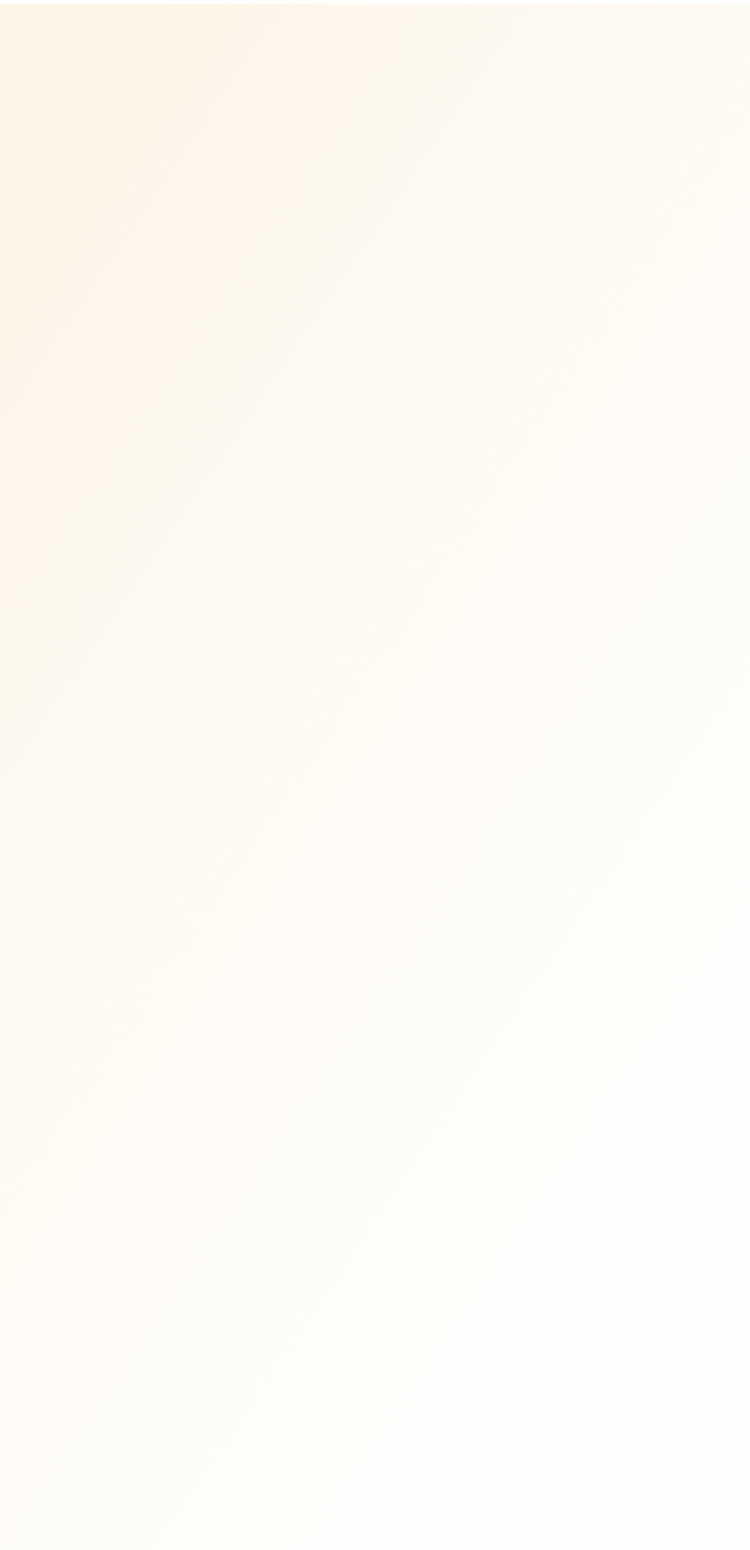
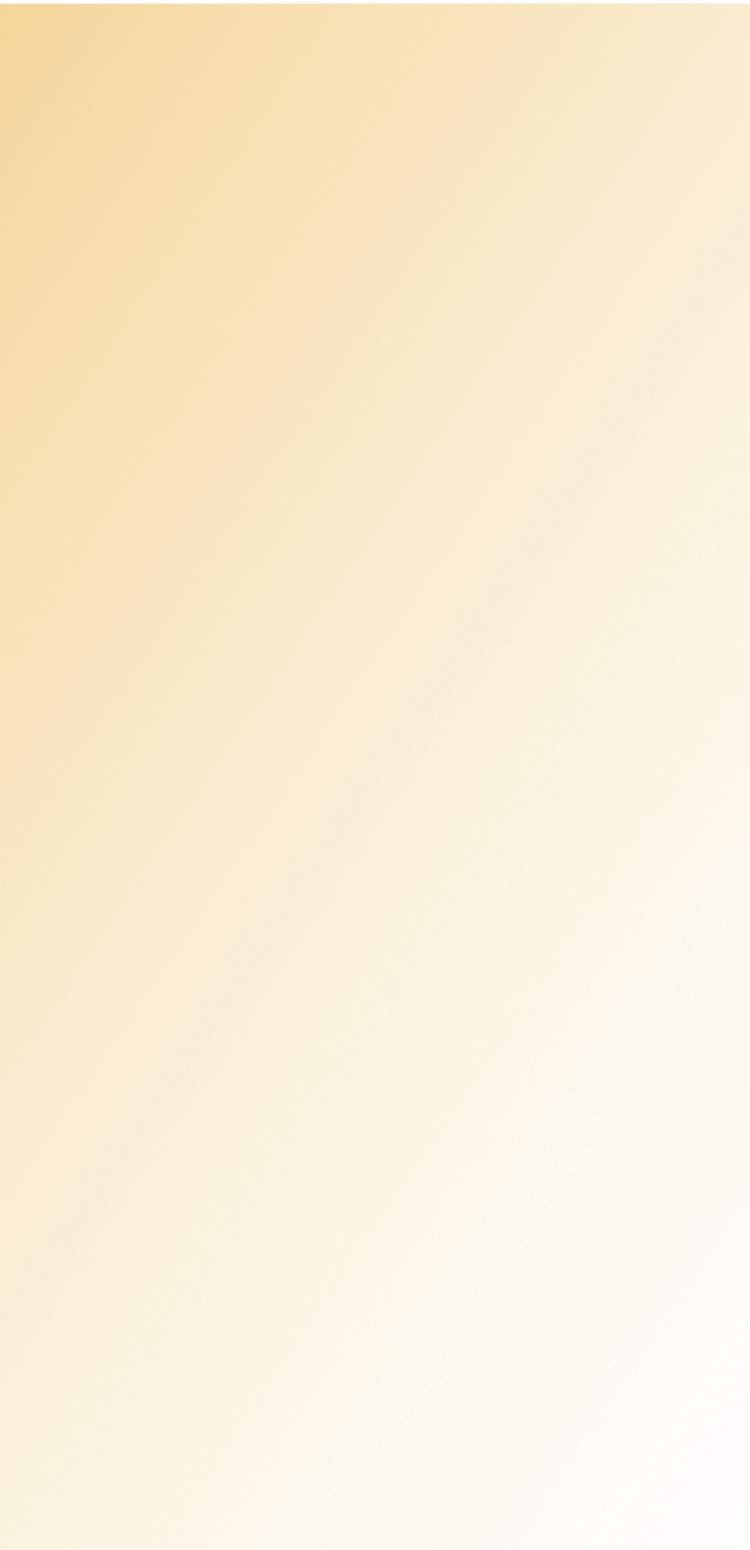
Change task BG Gradient

diff --git a/components/tasks/client/taskDetails/TaskDetails.tsx b/components/tasks/client/taskDetails/TaskDetails.tsx
@@ -19,7 +19,7 @@ import {
 } from "@expo/vector-icons";
 import Application from "../../../../types/Application";
 
-import gradient from "../../../../assets/images/orange_gradient.png";
+import gradient from "../../../../assets/images/double-gradient.png";
 
 const skills = [
   { id: 200, name: "Carpentry" },
@@ -103,6 +103,7 @@ const TaskDetails: React.FC = ({ route, navigation }: any) => {
     <ImageBackground
       source={gradient}
       resizeMode="cover"
+      imageStyle={{ opacity: 1 }}
       style={styles.container}
     >
       <View style={styles.header}>
@@ -134,7 +135,9 @@ const TaskDetails: React.FC = ({ route, navigation }: any) => {
           <View style={styles.roundIcon}>
             <FontAwesome name="dollar" size={18} color="#fff" />
           </View>
-          <Text style={styles.propertyText}>{task.minPrice} - {task.maxPrice} TND</Text>
+          <Text style={styles.propertyText}>
+            {task.minPrice} - {task.maxPrice} TND
+          </Text>
         </View>
       </View>
 
